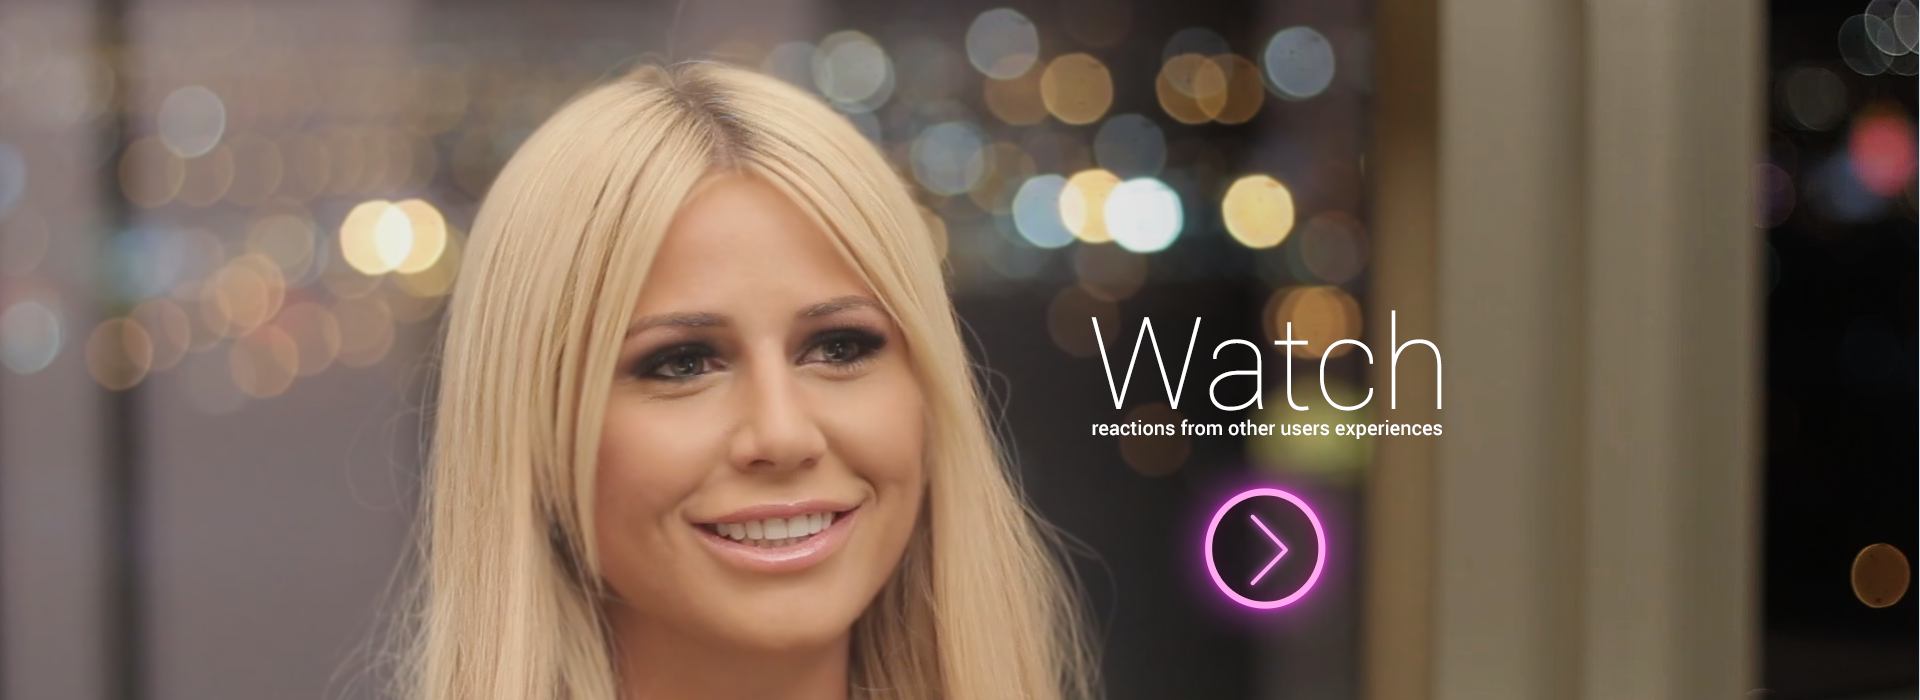
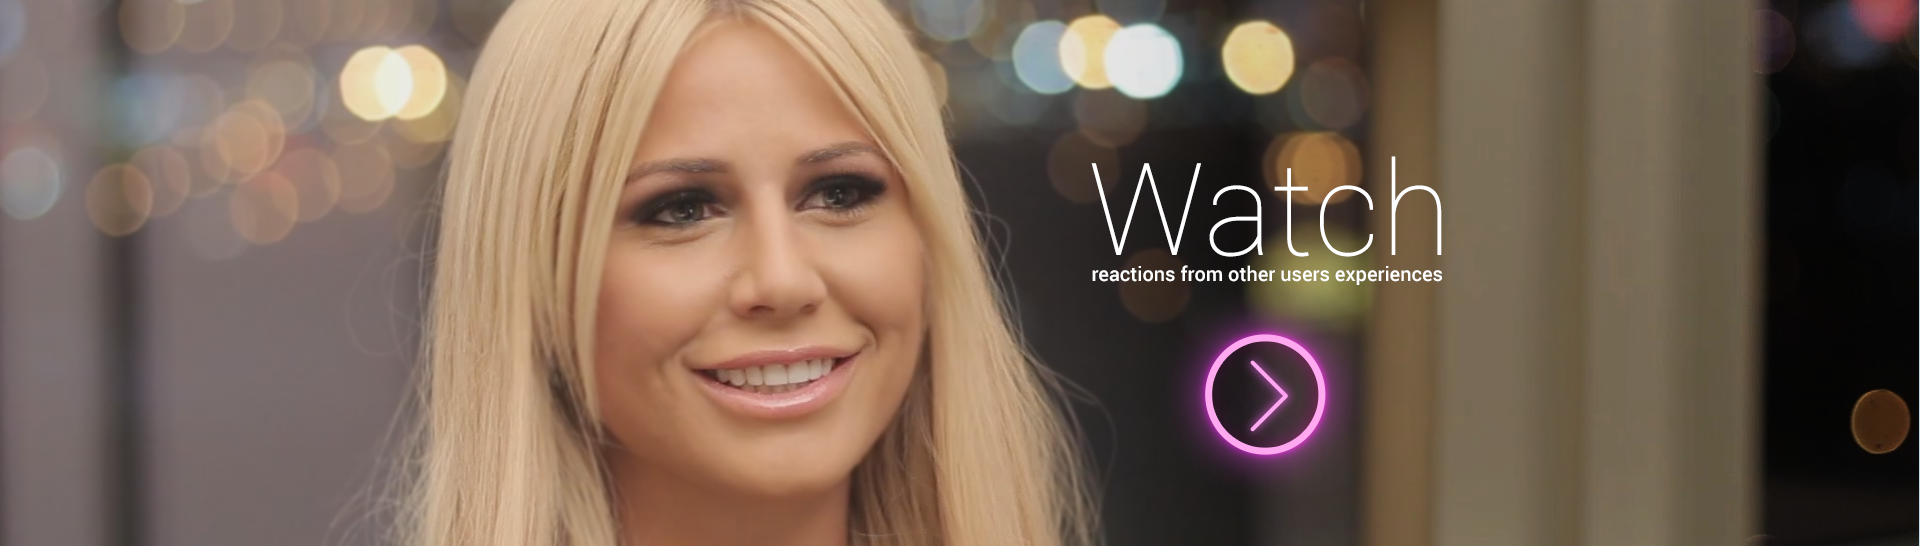
Fixed Hearo and whitespace on homepage
[#61946368]

diff --git a/app/assets/stylesheets/main/modules/_main_psychics.scss b/app/assets/stylesheets/main/modules/_main_psychics.scss
@@ -17,13 +17,12 @@ a.psychics-more {
 }
 
 .container-psychics-loading-container {
-  height: 120px;
+  height: 60px;
   text-align: center;
 };
 
 .container-psychics-loading {
   margin: 0 auto;
-  padding: 30px;
   display: none;
 }
 

diff --git a/app/assets/stylesheets/main/modules/_main_hearo.scss b/app/assets/stylesheets/main/modules/_main_hearo.scss
@@ -1,7 +1,7 @@
 @import "main/helpers";
 
 .hero {
-  height: 700px;
+  height: 456px;
   background: #b1cad5 url(image-path("hero.png"));
   background-position: center center;
   cursor: pointer;

diff --git a/app/assets/stylesheets/main/modules/_main_container.scss b/app/assets/stylesheets/main/modules/_main_container.scss
@@ -2,7 +2,6 @@
 
 .container {
   background: #fff;
-  padding-top: 60px;
 }
 
 .container-nav {
